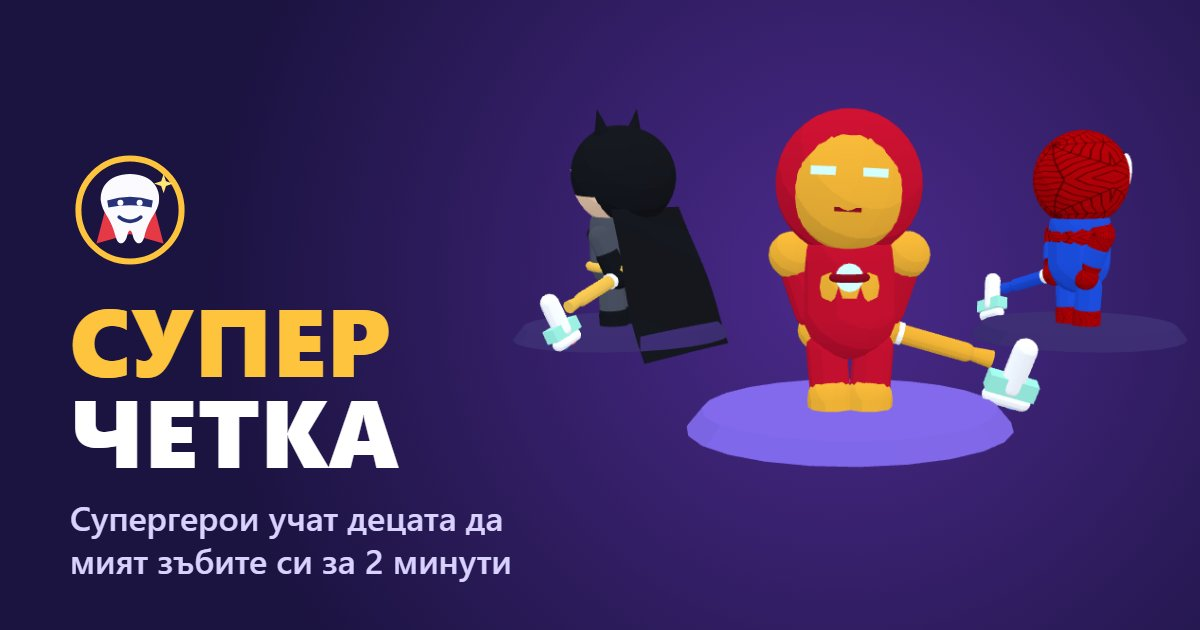
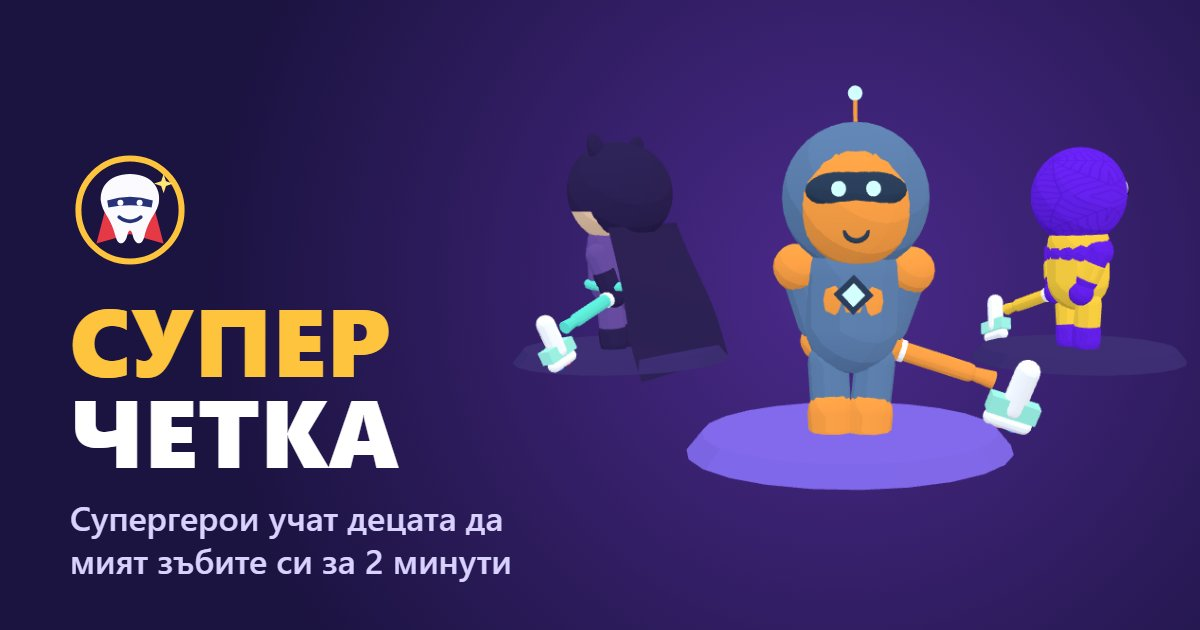
More original hero looks and refreshed share image
- Железарко: steel blue + orange robot with a rounded visor, round eyes,
  smile, antenna and a diamond chest light (was red/gold, slit eyes, round
  chest reactor).
- Паячко: violet + yellow with a faint web and round friendly eyes (was
  red/blue with big angled eyes).
- Прилепчо: plum + teal with short rounded ears, round eyes, smile and a
  moon badge (was grey/black/yellow, pointed ears, slit eyes, chest emblem).
  Suit renamed from "Черният рицар" to "Нощен пазач".
- Share image recaptured with the new looks.

Changed region(s): [[0.555, 0.1206, 0.9558, 0.7841], [0.4317, 0.181, 0.6167, 0.6032]]

diff --git a/src/scene/heroes/HeroModel.tsx b/src/scene/heroes/HeroModel.tsx
@@ -311,11 +311,11 @@ function IronMan({ suit, anim }: HeroModelProps) {
         <mesh position={[0, 0.02, 0.2]} scale={[1, 1.1, 0.5]} material={m.gold}>
           <sphereGeometry args={[0.2, 14, 10]} />
         </mesh>
-        <mesh position={[0, 0.08, 0.31]} rotation={[Math.PI / 2, 0, 0]} material={m.glow}>
-          <cylinderGeometry args={[0.085, 0.085, 0.06, 16]} />
+        <mesh position={[0, 0.06, 0.3]} rotation={[0, 0, Math.PI / 4]} material={m.dark}>
+          <boxGeometry args={[0.17, 0.17, 0.05]} />
         </mesh>
-        <mesh position={[0, 0.08, 0.3]} rotation={[Math.PI / 2, 0, 0]} material={m.dark}>
-          <torusGeometry args={[0.1, 0.025, 8, 18]} />
+        <mesh position={[0, 0.06, 0.32]} rotation={[0, 0, Math.PI / 4]} material={m.glow}>
+          <boxGeometry args={[0.1, 0.1, 0.05]} />
         </mesh>
         <group ref={refs.armL} position={[-0.36, 0.2, 0]}>
           <mesh material={m.gold}>
@@ -349,14 +349,22 @@ function IronMan({ suit, anim }: HeroModelProps) {
         <mesh position={[0, -0.03, 0.2]} scale={[0.78, 0.82, 0.62]} material={m.gold}>
           <sphereGeometry args={[HEAD_R, 24, 18]} />
         </mesh>
-        <mesh position={[-0.15, 0.06, 0.44]} rotation={[0, -0.25, 0]} material={m.glow}>
-          <boxGeometry args={[0.15, 0.05, 0.04]} />
+        <mesh position={[0, 0.05, 0.39]} scale={[1, 0.42, 0.35]} material={m.dark}>
+          <sphereGeometry args={[0.3, 20, 12]} />
         </mesh>
-        <mesh position={[0.15, 0.06, 0.44]} rotation={[0, 0.25, 0]} material={m.glow}>
-          <boxGeometry args={[0.15, 0.05, 0.04]} />
+        {[-1, 1].map((s) => (
+          <mesh key={s} position={[s * 0.1, 0.06, 0.48]} material={m.glow}>
+            <sphereGeometry args={[0.045, 12, 10]} />
+          </mesh>
+        ))}
+        <mesh position={[0, -0.17, 0.44]} rotation={[0, 0, Math.PI]} material={m.dark}>
+          <torusGeometry args={[0.07, 0.016, 6, 14, Math.PI]} />
         </mesh>
-        <mesh position={[0, -0.16, 0.45]} material={m.dark}>
-          <boxGeometry args={[0.16, 0.025, 0.03]} />
+        <mesh position={[0, HEAD_R + 0.08, 0]} material={m.gold}>
+          <cylinderGeometry args={[0.015, 0.015, 0.16, 6]} />
+        </mesh>
+        <mesh position={[0, HEAD_R + 0.17, 0]} material={m.glow}>
+          <sphereGeometry args={[0.045, 10, 8]} />
         </mesh>
       </group>
     </group>
@@ -455,12 +463,12 @@ function SpiderMan({ suit, anim }: HeroModelProps) {
               <sphereGeometry args={[HEAD_R, 24, 18]} />
             </mesh>
             {[-1, 1].map((s) => (
-              <group key={s} position={[s * 0.17, 0.05, 0.36]} rotation={[0.15, s * 0.45, s * 0.35]}>
-                <mesh scale={[1.18, 1.55, 0.45]} position={[0, 0, -0.03]} material={m.eyeRim}>
-                  <sphereGeometry args={[0.14, 16, 12]} />
+              <group key={s} position={[s * 0.15, 0.06, 0.41]} rotation={[0, s * 0.35, 0]}>
+                <mesh scale={[1, 1.1, 0.5]} material={m.eyeWhite}>
+                  <sphereGeometry args={[0.1, 16, 12]} />
                 </mesh>
-                <mesh scale={[1, 1.4, 0.4]} position={[0, 0, 0.04]} material={m.eyeWhite}>
-                  <sphereGeometry args={[0.13, 16, 12]} />
+                <mesh scale={[1, 1, 0.5]} position={[0, -0.01, 0.045]} material={m.eyeRim}>
+                  <sphereGeometry args={[0.048, 12, 10]} />
                 </mesh>
               </group>
             ))}
@@ -539,8 +547,11 @@ function Batman({ suit, anim }: HeroModelProps) {
         <mesh material={m.grey}>
           <capsuleGeometry args={[0.3, 0.32, 6, 14]} />
         </mesh>
-        <mesh position={[0, 0.1, 0.27]} scale={[1.4, 0.8, 0.3]} material={m.black}>
-          <sphereGeometry args={[0.13, 14, 10]} />
+        <mesh position={[0, 0.1, 0.29]} scale={[1, 1, 0.35]} material={m.belt}>
+          <sphereGeometry args={[0.09, 14, 10]} />
+        </mesh>
+        <mesh position={[0.04, 0.12, 0.31]} scale={[1, 1, 0.35]} material={m.grey}>
+          <sphereGeometry args={[0.075, 14, 10]} />
         </mesh>
         <mesh position={[0, -0.2, 0]} rotation={[Math.PI / 2, 0, 0]} material={m.belt}>
           <torusGeometry args={[0.3, 0.045, 8, 20]} />
@@ -581,20 +592,18 @@ function Batman({ suit, anim }: HeroModelProps) {
         <mesh position={[0, 0.03, -0.1]} material={m.black}>
           <sphereGeometry args={[HEAD_R * 1.0, 24, 18, 0, Math.PI * 2, 0, Math.PI * 0.8]} />
         </mesh>
-        <mesh position={[-0.24, 0.5, 0]} rotation={[0, 0, 0.25]} material={m.black}>
-          <coneGeometry args={[0.1, 0.32, 10]} />
-        </mesh>
-        <mesh position={[0.24, 0.5, 0]} rotation={[0, 0, -0.25]} material={m.black}>
-          <coneGeometry args={[0.1, 0.32, 10]} />
-        </mesh>
-        <mesh position={[-0.15, 0.07, 0.43]} rotation={[0, -0.3, 0.2]} material={m.eyes}>
-          <boxGeometry args={[0.14, 0.05, 0.03]} />
-        </mesh>
-        <mesh position={[0.15, 0.07, 0.43]} rotation={[0, 0.3, -0.2]} material={m.eyes}>
-          <boxGeometry args={[0.14, 0.05, 0.03]} />
-        </mesh>
-        <mesh position={[0, -0.2, 0.42]} material={m.black}>
-          <boxGeometry args={[0.12, 0.02, 0.02]} />
+        {[-1, 1].map((s) => (
+          <mesh key={s} position={[s * 0.27, 0.42, -0.02]} rotation={[0, 0, -s * 0.45]} scale={[0.6, 1, 0.35]} material={m.black}>
+            <sphereGeometry args={[0.16, 14, 10]} />
+          </mesh>
+        ))}
+        {[-1, 1].map((s) => (
+          <mesh key={s} position={[s * 0.14, 0.07, 0.42]} scale={[1, 1.15, 0.5]} material={m.eyes}>
+            <sphereGeometry args={[0.055, 12, 10]} />
+          </mesh>
+        ))}
+        <mesh position={[0, -0.17, 0.43]} rotation={[0, 0, Math.PI]} material={m.black}>
+          <torusGeometry args={[0.06, 0.014, 6, 14, Math.PI]} />
         </mesh>
       </group>
     </group>

diff --git a/src/heroes/ironman/hero.ts b/src/heroes/ironman/hero.ts
@@ -10,11 +10,11 @@ export const ironman: HeroPack = {
       id: 'classic',
       name: 'Classic',
       palette: {
-        primary: '#c8102e',
-        secondary: '#f2b134',
-        accent: '#8a0b1f',
-        glow: '#8ff7ff',
-        brush: '#f2b134',
+        primary: '#5f7fa8',
+        secondary: '#ff9f43',
+        accent: '#2c3e57',
+        glow: '#8ff7d4',
+        brush: '#ff9f43',
       },
     },
     {
@@ -29,5 +29,5 @@ export const ironman: HeroPack = {
       },
     },
   ],
-  ui: { bg: '#5a0f1f', fg: '#ffd166' },
+  ui: { bg: '#1f3350', fg: '#ffb46b' },
 };

diff --git a/src/heroes/batman/hero.ts b/src/heroes/batman/hero.ts
@@ -10,11 +10,11 @@ export const batman: HeroPack = {
       id: 'classic',
       name: 'Dark Knight',
       palette: {
-        primary: '#4a4f5c',
-        secondary: '#15171c',
-        accent: '#f2c14e',
+        primary: '#6a4c9c',
+        secondary: '#2d2150',
+        accent: '#5ee6d0',
         glow: '#ffffff',
-        brush: '#f2c14e',
+        brush: '#5ee6d0',
         skin: '#f1c9a5',
       },
     },
@@ -31,5 +31,5 @@ export const batman: HeroPack = {
       },
     },
   ],
-  ui: { bg: '#1a1d26', fg: '#f2c14e' },
+  ui: { bg: '#241a3d', fg: '#7ef0dc' },
 };

diff --git a/src/heroes/spiderman/hero.ts b/src/heroes/spiderman/hero.ts
@@ -10,11 +10,11 @@ export const spiderman: HeroPack = {
       id: 'classic',
       name: 'Classic',
       palette: {
-        primary: '#d7263d',
-        secondary: '#1d4ed8',
-        accent: '#5a0b17',
+        primary: '#a463f2',
+        secondary: '#ffcf3f',
+        accent: '#9150e0',
         glow: '#ffffff',
-        brush: '#1d4ed8',
+        brush: '#ffcf3f',
       },
     },
     {
@@ -29,5 +29,5 @@ export const spiderman: HeroPack = {
       },
     },
   ],
-  ui: { bg: '#1e3a8a', fg: '#ff6b6b' },
+  ui: { bg: '#3b2a8a', fg: '#ffd84d' },
 };

diff --git a/src/i18n/i18n.test.ts b/src/i18n/i18n.test.ts
@@ -47,7 +47,7 @@ describe('translate', () => {
     expect(bgT.tn('victory.streak', 1)).toBe('1 ден поред');
     expect(bgT.tn('victory.streak', 3)).toBe('3 дни поред');
     expect(bgT.heroName('ironman')).toBe('Железарко');
-    expect(bgT.suitName('batman', 'classic')).toBe('Черният рицар');
+    expect(bgT.suitName('batman', 'classic')).toBe('Нощен пазач');
     expect(bgT.heroName('unknown')).toBe('unknown');
   });
 

diff --git a/src/i18n/bg.ts b/src/i18n/bg.ts
@@ -34,7 +34,7 @@ export const bg: Messages = {
   'suit.ironman.stealth': 'Невидим',
   'suit.spiderman.classic': 'Класически',
   'suit.spiderman.mint': 'Ментова паста',
-  'suit.batman.classic': 'Черният рицар',
+  'suit.batman.classic': 'Нощен пазач',
   'suit.batman.blue': 'Синият рицар',
 
   'seg.upper-outer-left': 'Горе вляво, отвън',

diff --git a/src/i18n/en.ts b/src/i18n/en.ts
@@ -35,7 +35,7 @@ export const en = {
   'suit.ironman.stealth': 'Stealth',
   'suit.spiderman.classic': 'Classic',
   'suit.spiderman.mint': 'Toothpaste Mint',
-  'suit.batman.classic': 'Dark Knight',
+  'suit.batman.classic': 'Night Watch',
   'suit.batman.blue': 'Blue Knight',
 
   'seg.upper-outer-left': 'Top left, outside',
